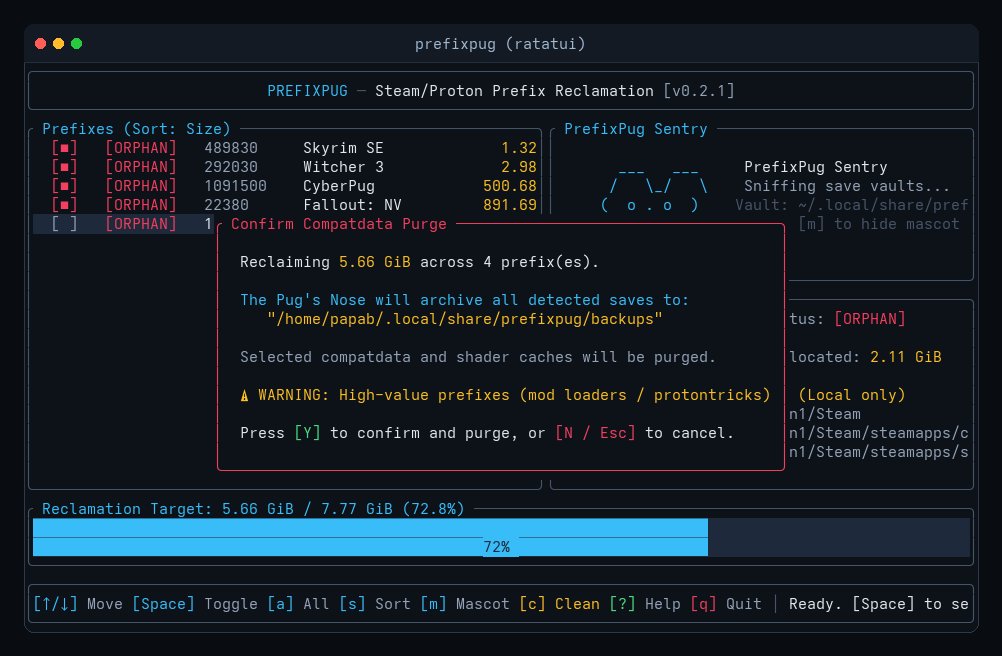
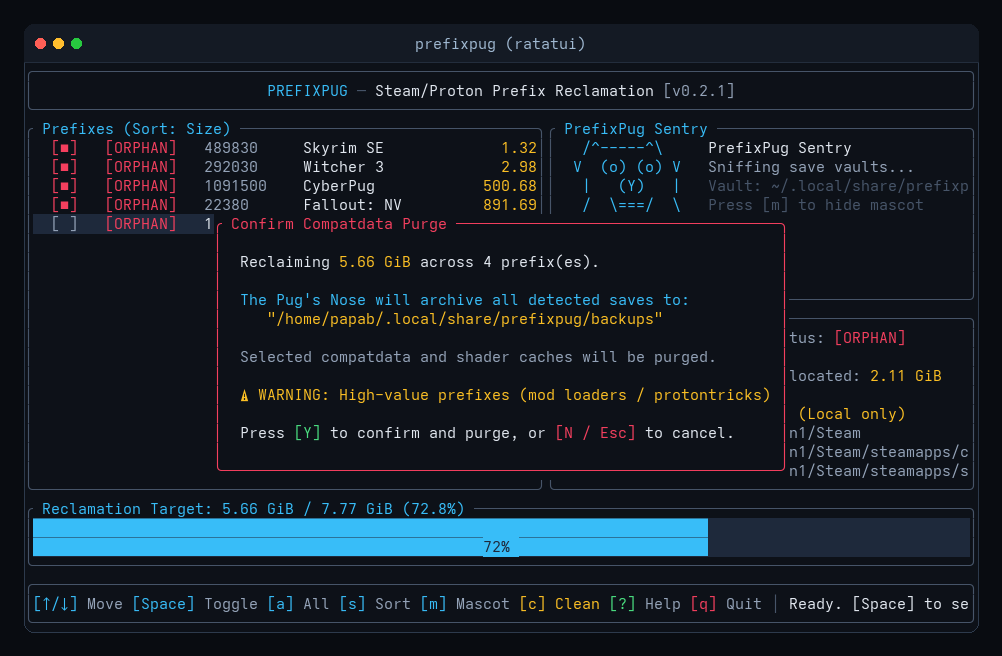
style: replace ASCII mascot with unmistakable sitting dog in CLI, TUI, and README demo

diff --git a/src/tui/ui.rs b/src/tui/ui.rs
@@ -260,52 +260,67 @@ fn render_pug_and_details(f: &mut Frame, app: &App, area: Rect) {
     if app.show_mascot {
         let chunks = Layout::default()
             .direction(Direction::Vertical)
-            .constraints([Constraint::Length(9), Constraint::Min(6)])
+            .constraints([Constraint::Length(10), Constraint::Min(6)])
             .split(area);
 
-        // Mascot: clean, charming ASCII pug sentry
+        // Mascot: unmistakable ASCII dog sentry with floppy ears, paws, and curly tail
         let anim_cycle = (app.animation_frame / 6) % 4;
-        let (eyes, action) = match anim_cycle {
-            0 => ("(  o . o  )", "Sniffing save vaults..."),
-            1 => ("(  ^ . ^  )", "All saves accounted for."),
-            2 => ("(  • . •  )", "Scanning directories..."),
-            _ => ("(  - . -  )", "Standing by."),
+        let (head_line, snout_line, action) = match anim_cycle {
+            0 => (
+                "  V  (o) (o) V  ",
+                "   |   (Y)   |  ",
+                "Sniffing save vaults...",
+            ),
+            1 => ("  V  (^) (^) V  ", "   |   (▼)   |  ", "*sniff sniff*"),
+            2 => (
+                "  V  (•) (•) V  ",
+                "   |   (Y)   |  ",
+                "Digging up save candidates...",
+            ),
+            _ => (
+                "  V  (^) (^) V  ",
+                "   |   (w)   |  ",
+                "All saves accounted for.",
+            ),
         };
 
         let pug_art = vec![
-            Line::from(""),
             Line::from(vec![
-                Span::styled("       ___   ___  ", Style::default().fg(COLOR_ACCENT)),
+                Span::styled("   /^-----^\\    ", Style::default().fg(COLOR_ACCENT)),
                 Span::styled(
-                    "   PrefixPug Sentry",
+                    " PrefixPug Sentry",
                     Style::default().fg(COLOR_TEXT).add_modifier(Modifier::BOLD),
                 ),
             ]),
             Line::from(vec![
-                Span::styled("      /   \\_/   \\ ", Style::default().fg(COLOR_ACCENT)),
-                Span::styled(format!("   {}", action), Style::default().fg(COLOR_MUTED)),
-            ]),
-            Line::from(vec![
                 Span::styled(
-                    format!("     {} ", eyes),
+                    head_line,
                     Style::default()
                         .fg(COLOR_ACCENT)
                         .add_modifier(Modifier::BOLD),
                 ),
+                Span::styled(format!(" {}", action), Style::default().fg(COLOR_MUTED)),
+            ]),
+            Line::from(vec![
+                Span::styled(snout_line, Style::default().fg(COLOR_ACCENT)),
                 Span::styled(
-                    "   Vault: ~/.local/share/prefixpug/backups/",
+                    " Vault: ~/.local/share/prefixpug/",
                     Style::default().fg(COLOR_BORDER),
                 ),
             ]),
             Line::from(vec![
-                Span::styled("      (   =v=   ) ", Style::default().fg(COLOR_ACCENT)),
+                Span::styled("   /  \\===/  \\  ", Style::default().fg(COLOR_ACCENT)),
                 Span::styled(
-                    "   Press [m] to hide mascot",
+                    " Press [m] to hide mascot",
                     Style::default().fg(COLOR_BORDER),
                 ),
             ]),
             Line::from(vec![Span::styled(
-                "       \\_______/  ",
+                "  / /|     |\\ \\   @",
+                Style::default().fg(COLOR_ACCENT),
+            )]),
+            Line::from(vec![Span::styled(
+                " (_/ |_____| \\_) ( )",
                 Style::default().fg(COLOR_ACCENT),
             )]),
         ];

diff --git a/src/main.rs b/src/main.rs
@@ -92,6 +92,17 @@ fn execute_clean(
     Ok(cleaned_bytes)
 }
 
+fn print_cli_dog_banner(title: &str, subtitle: &str) {
+    if std::io::stdout().is_terminal() {
+        println!("  \x1b[36m/^-----^\\\x1b[0m    \x1b[1;36m{}\x1b[0m", title);
+        println!(" \x1b[36mV  (o) (o) V\x1b[0m  \x1b[90m{}\x1b[0m", subtitle);
+        println!("  \x1b[36m|   (Y)   |\x1b[0m");
+        println!(" \x1b[36m/ `-------' \\\x1b[0m\n");
+    } else {
+        println!("{}: {}", title, subtitle);
+    }
+}
+
 fn run_audit_command(
     prefixes: &[OrphanedPrefix],
     json_mode: bool,
@@ -114,18 +125,18 @@ fn run_audit_command(
         return Ok(if audit_targets.is_empty() { 4 } else { 0 });
     }
 
-    println!("\x1b[1;36mPrefixPug :: Read-Only Prefix Inventory Audit\x1b[0m");
-    if stale_only {
-        println!(
-            "Filtering to installed games with prefixes untouched for >{} days:\n",
+    let subtitle = if stale_only {
+        format!(
+            "Filtering to installed games untouched for >{} days",
             stale_days
-        );
+        )
     } else {
-        println!(
-            "Total detected prefixes across all drives: {}\n",
+        format!(
+            "Total detected prefixes across mounted libraries: {}",
             audit_targets.len()
-        );
-    }
+        )
+    };
+    print_cli_dog_banner("PrefixPug :: Read-Only Prefix Inventory Audit", &subtitle);
 
     if audit_targets.is_empty() {
         println!("No prefixes found matching criteria.");
@@ -175,8 +186,10 @@ fn run_scan_command(orphans: &[OrphanedPrefix], json_mode: bool) -> Result<i32> 
         return Ok(if orphans.is_empty() { 4 } else { 0 });
     }
 
-    println!("\x1b[1;36mPrefixPug :: Steam/Proton Storage Scan\x1b[0m");
-    println!("Found {} orphaned prefix candidate(s):\n", orphans.len());
+    print_cli_dog_banner(
+        "PrefixPug :: Steam/Proton Storage Scan",
+        &format!("Found {} orphaned prefix candidate(s):", orphans.len()),
+    );
 
     if orphans.is_empty() {
         println!("No orphaned prefixes detected. Your storage is clean.");
@@ -232,10 +245,12 @@ fn run_clean_command(
     let is_explicit_dry_run = cli.dry_run;
     let is_authorized_live = cli.yes || cli.auto_clean || purge_requested;
 
-    println!("\x1b[1;36mPrefixPug :: Cleanup Target Summary\x1b[0m");
-    if is_explicit_dry_run || !is_authorized_live {
-        println!("\x1b[1;33m[SAFE DEFAULT: Review targets below. Deletions require explicit confirmation]\x1b[0m");
-    }
+    let sub = if is_explicit_dry_run || !is_authorized_live {
+        "[SAFE DEFAULT: Review targets below. Deletions require explicit confirmation]"
+    } else {
+        "Reclamation mode active"
+    };
+    print_cli_dog_banner("PrefixPug :: Cleanup Target Summary", sub);
 
     let total_reclaimable: u64 = targets.iter().map(|o| o.total_size()).sum();
     for t in &targets {

diff --git a/scripts/generate_media.py b/scripts/generate_media.py
@@ -128,11 +128,20 @@ def main():
         loop=0,
         optimize=True
     )
+    gif_frames[0].save(
+        "/home/papab/Projects/prefixpug/assets/prefixpug_tui_clean.gif",
+        save_all=True,
+        append_images=gif_frames[1:],
+        duration=120,
+        loop=0,
+        optimize=True
+    )
     print("✓ Successfully generated:")
     print("  - assets/prefixpug_tui.png")
     print("  - assets/prefixpug_modal.png")
     print("  - assets/prefixpug_demo.gif")
     print("  - assets/prefixpug_tui_demo.gif")
+    print("  - assets/prefixpug_tui_clean.gif")
 
 if __name__ == "__main__":
     main()
